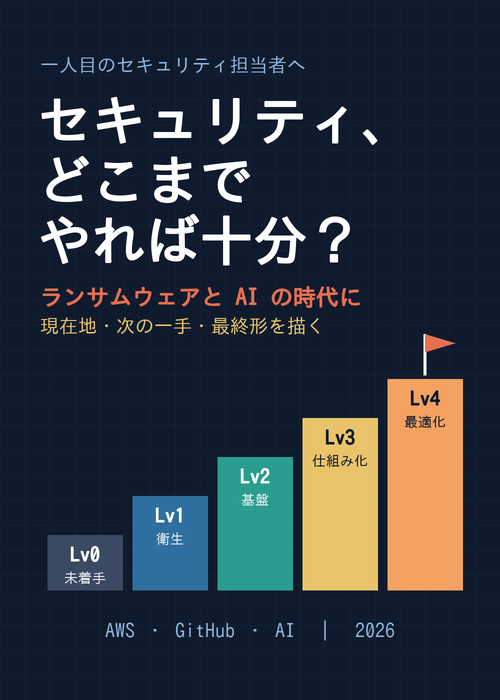
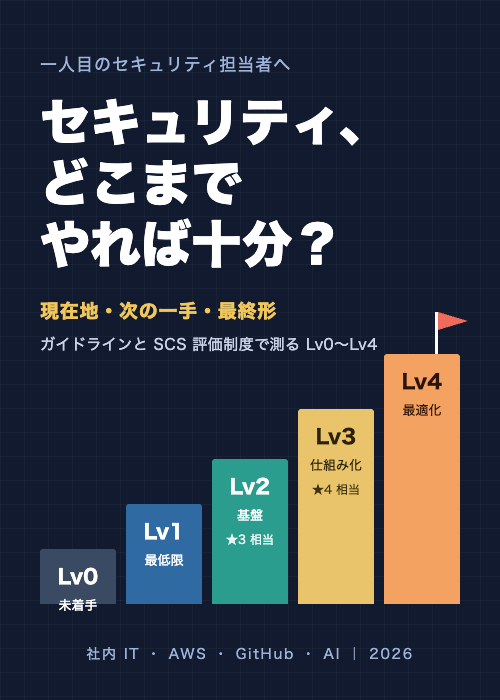
retitle book around 'how far is enough', add target-level section, refresh cover
- ch3: choose a target level using SCS ★3/★4 positioning; not every company needs Lv4
- ch1: Lv4 described as the final form, Lv2 as everyone's baseline
- config: new title/summary without product or victim names; topic 情シス replaces duplicate セキュリティ
- cover: Lv1 最低限, ★3/★4 markers, no dated tagline

Claude-Session: https://claude.ai/code/session_01RS9thsX4itc9QsyQTRr7dz

diff --git a/books/security-roadmap-ja/03-yardsticks.md b/books/security-roadmap-ja/03-yardsticks.md
@@ -214,6 +214,18 @@ AWS が公開している、AWS 上のセキュリティ対策を段階的に進
 |Lv3 仕組み化| 回り続ける | 開発プロセスに診断が組み込まれ、脆弱性や検知結果が期限（SLA）つきで処理される。自動修復や AI による診断・修正が回っている。訓練をしている | AWS Efficient / NIST ティア3 /SCS ★4|
 |Lv4 最適化（最終形）| 自律的に改善する | 指標で状態を測り、経営に報告し、継続的に改善している。セキュリティが事業の信頼（売り）になっている。AI エージェントが一次対応を担い、人は判断と改善に集中している | AWS Optimized / NIST ティア4 / SCS ★5 を意識 |
 
+### 自社の目標レベルを決める
+
+どこまでやれば十分かは、会社によって違います。すべての会社が Lv4 を目指す必要はありません。目安には、SCS 評価制度の★の位置づけが使えます。制度は ★3 を「すべてのサプライチェーン企業が最低限実装すべき対策」、★4 を「サプライチェーン企業として標準的に目指すべき対策」としています。これに合わせて、この本では目標を次のように考えます。
+
+| 目標 | 当てはまる会社の例 |
+|---|---|
+| Lv2（★3 相当） | すべての会社の最低ライン。取引先に製品やサービスを納めている会社は、まずここまで |
+| Lv3（★4 相当） | 取引先から ★4 や ISMS を求められている。個人情報や取引先の機密情報を大量に預かっている。自社のサービスが止まると、顧客の業務も止まる |
+| Lv4 | セキュリティそのものを顧客に約束している（セキュリティ製品、決済、医療、重要インフラ向けのサービスなど）。規模が大きく、専任の体制を持てる |
+
+Lv4 の行は、この本の目安です。どのレベルを目標にするかは、経営が決めることです（経営ガイドラインの指示 1・4）。目標を決めたら、その先の対策をしないことは「受容」として、リスク登録簿（5 章）に理由とともに記録します。目標は、取引先の要求や事業の変化に合わせて、年に 1 回見直します。
+
 ### レベルを上げるときの原則
 
 1. **飛び級しない**: Lv1 が終わっていないのに Lv3 のツール（高度な CNAPP や AI 診断）を入れても、検知結果を処理する人と仕組みがないので、アラートが積み上がるだけになります。

diff --git a/books/security-roadmap-ja/01-intro.md b/books/security-roadmap-ja/01-intro.md
@@ -74,7 +74,9 @@ flowchart TB
 
 このループは、1 周に四半期かけるものではありません。検知とコードのチェックは常に動き、検知結果は毎日〜毎週見て、重大度ごとの期限までに直します。四半期ごとにするのは、レベルの測り直しと経営への報告、次の重点の見直しだけです。
 
-この「見つける → 直す → 確かめる」が人の手をなるべく使わずに回り、人は「何を受け入れ、どこに投資するか」の判断に集中している状態を、この本では「十分」と考えます。数百名規模の会社なら、専任者は数名で、各部門の兼務者・AI エージェント・外部パートナーと一緒に回す形です。
+この「見つける → 直す → 確かめる」が人の手をなるべく使わずに回り、人は「何を受け入れ、どこに投資するか」の判断に集中している状態が、Lv4 の最終形です。数百名規模の会社なら、専任者は数名で、各部門の兼務者・AI エージェント・外部パートナーと一緒に回す形です。
+
+ただし、どこまでやれば十分かは会社によって違い、すべての会社が Lv4 を目指す必要はありません。この本では、すべての会社の最低ラインを Lv2（SCS ★3 相当）とし、取引先の要求や預かっているデータによって Lv3（★4 相当）以上を目標にする、と考えます。自社の目標レベルの決め方は 3 章で説明します。
 
 2025〜2026 年に何が起きたのか、なぜ今セキュリティが経営の話題になっているのかは、2 章で整理します。すぐに自社の状態を確かめたい人は、このまま下の簡易チェックに進んでください。
 
